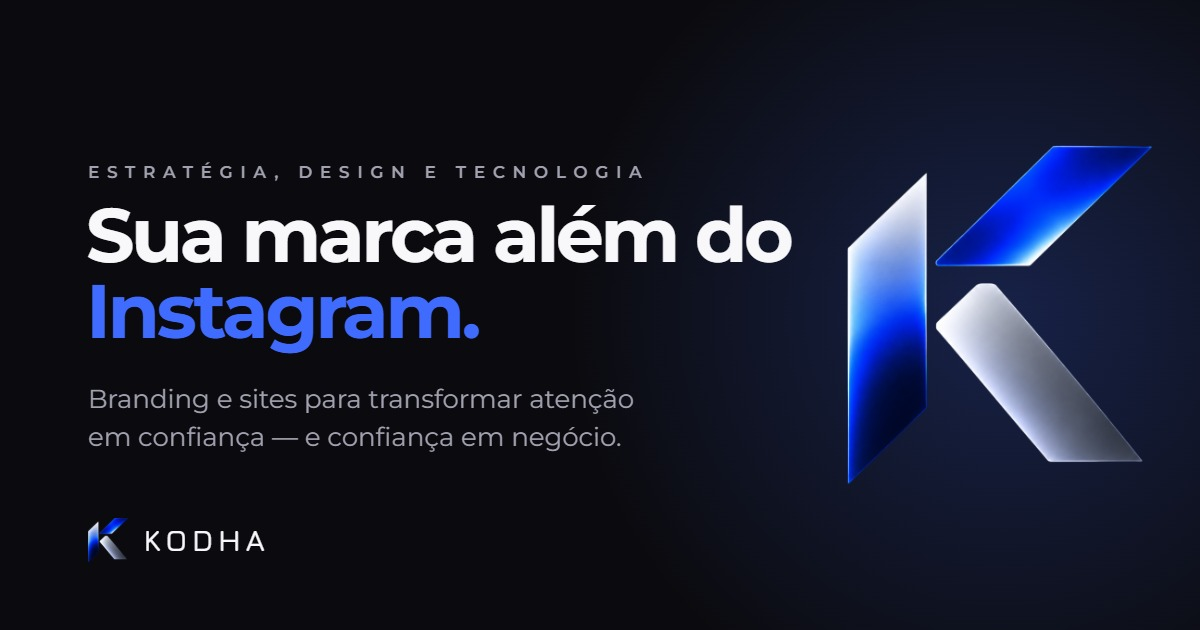
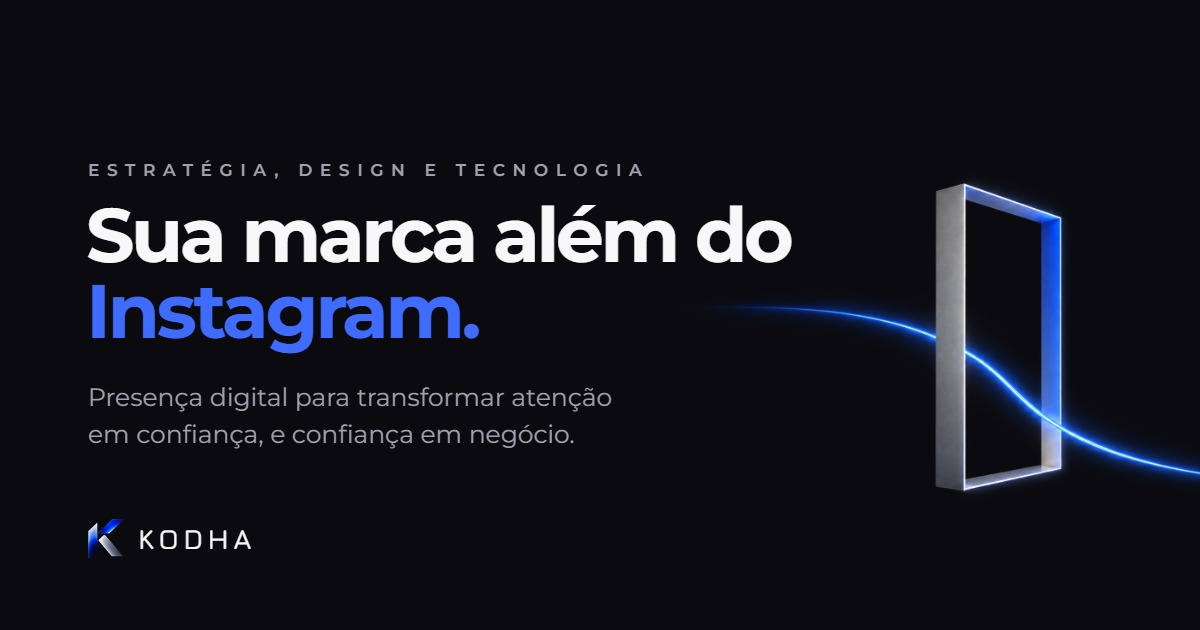
Imagem de compartilhamento com o portal e o subtítulo novo
A prévia do link (WhatsApp, LinkedIn, X) ainda mostrava o K antigo e o
texto "Branding e sites…". A nova segue o hero atual: título, subtítulo
"Presença digital para transformar atenção em confiança, e confiança em
negócio.", logo com KODHA em Jura e o portal à direita, com a linha
entrando abaixo do título. 1200×630, 62 KB.

- og:image, twitter:image e o JSON-LD apontam para og-image.jpg?v=2,
  para as redes buscarem a imagem nova em vez da guardada em cache
- og:image:alt com o subtítulo novo

diff --git a/index.html b/index.html
@@ -31,9 +31,9 @@
       property="og:description"
       content="Estratégia, design e tecnologia para profissionais independentes que querem mais do que likes: querem um negócio real."
     />
-    <meta property="og:image" content="https://kodha.vercel.app/assets/og-image.jpg" />
+    <meta property="og:image" content="https://kodha.vercel.app/assets/og-image.jpg?v=2" />
     <meta property="og:image:type" content="image/jpeg" />
-    <meta property="og:image:alt" content="KODHA: Sua marca além do Instagram. Branding e sites para profissionais independentes." />
+    <meta property="og:image:alt" content="KODHA: Sua marca além do Instagram. Presença digital para transformar atenção em confiança, e confiança em negócio." />
     <meta property="og:image:width" content="1200" />
     <meta property="og:image:height" content="630" />
     <meta property="og:url" content="https://kodha.vercel.app/" />
@@ -44,7 +44,7 @@
       name="twitter:description"
       content="Identidade visual, landing pages e sites institucionais para profissionais independentes."
     />
-    <meta name="twitter:image" content="https://kodha.vercel.app/assets/og-image.jpg" />
+    <meta name="twitter:image" content="https://kodha.vercel.app/assets/og-image.jpg?v=2" />
 
     <script type="application/ld+json">
       {
@@ -53,7 +53,7 @@
         "name": "KODHA",
         "url": "https://kodha.vercel.app/",
         "logo": "https://kodha.vercel.app/assets/logo-kodha.png",
-        "image": "https://kodha.vercel.app/assets/og-image.jpg",
+        "image": "https://kodha.vercel.app/assets/og-image.jpg?v=2",
         "description": "Identidade visual, landing pages e sites institucionais para profissionais independentes.",
         "slogan": "Sua marca além do Instagram",
         "sameAs": [
